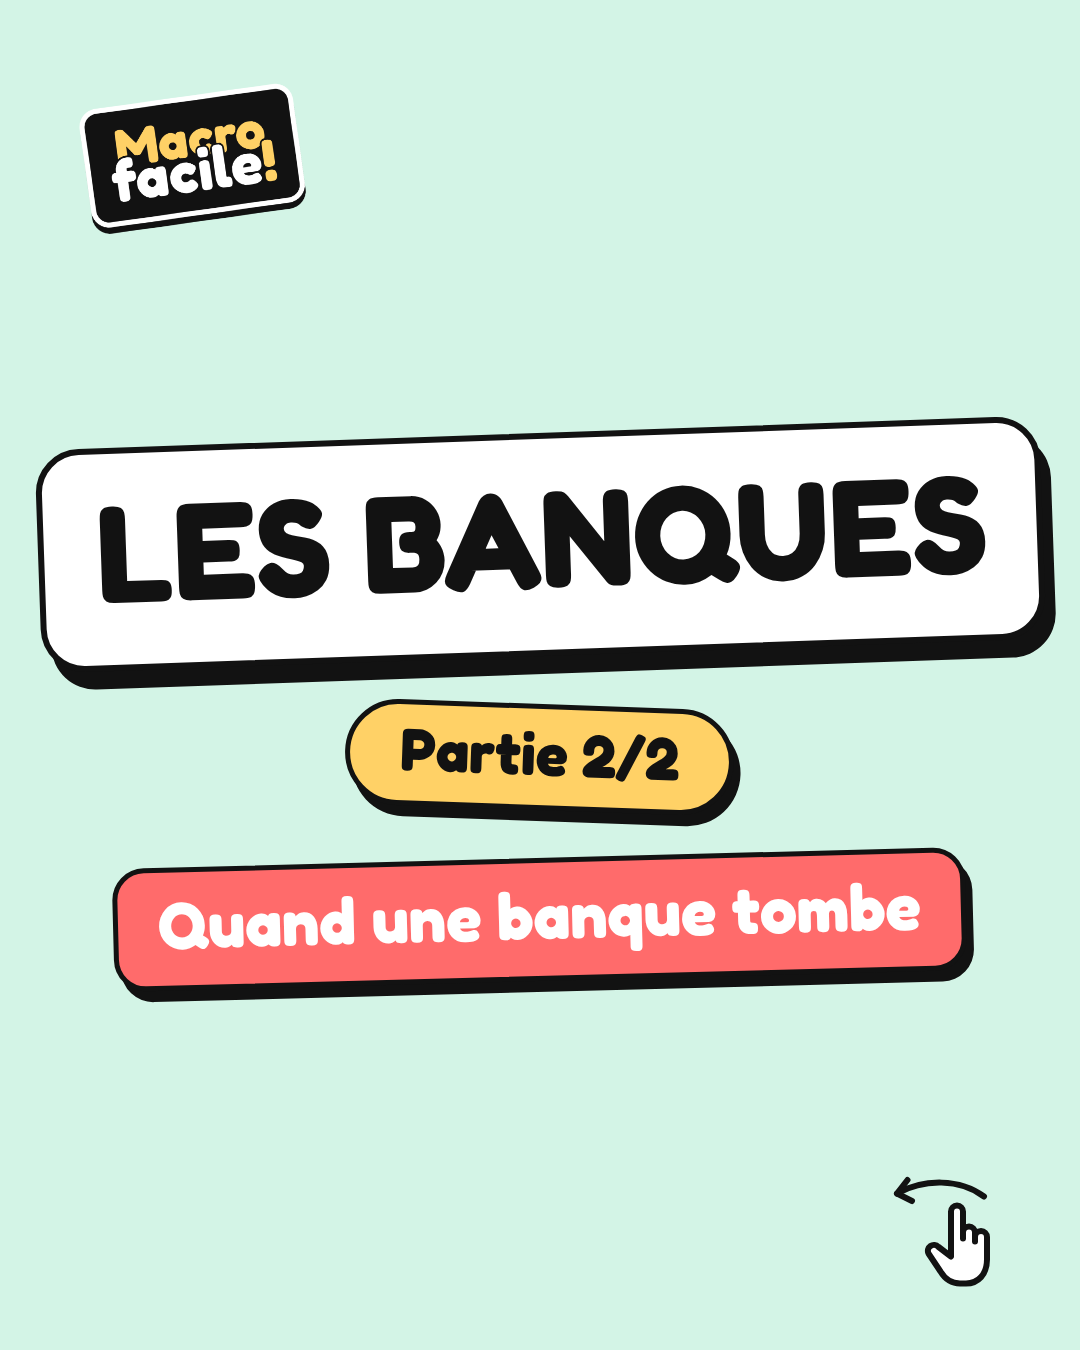
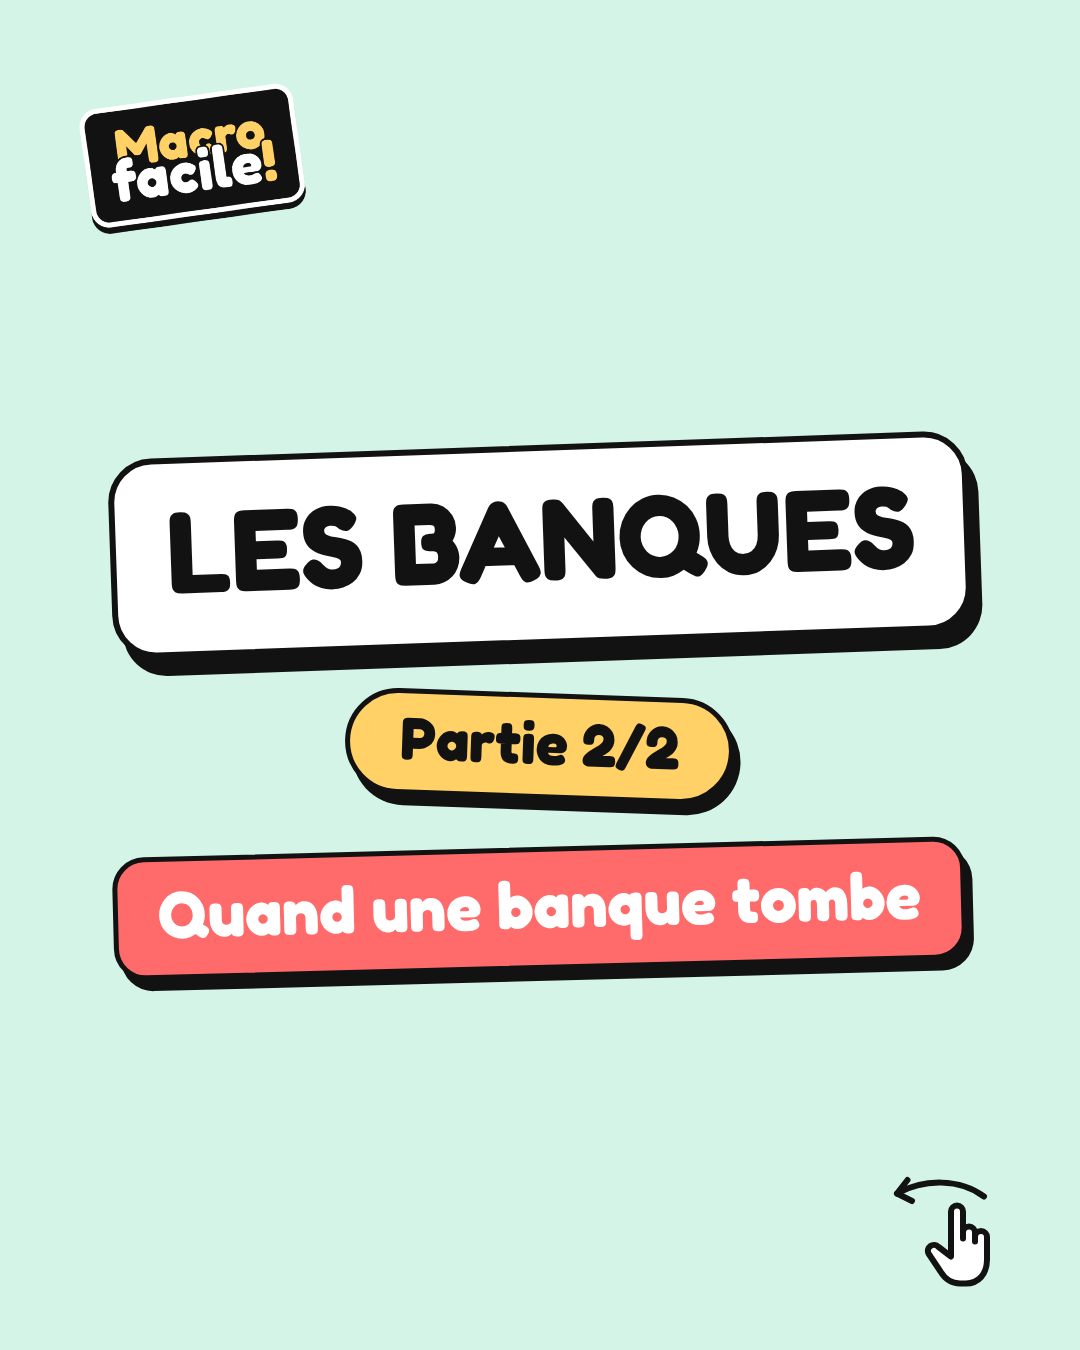
Couvertures : cadre du titre de taille fixe
Claude-Session: https://claude.ai/code/session_01ScyAKR26T942fPs4ZH6Uxk

Changed region(s): [[0.0306, 0.3111, 0.9778, 0.7467]]

diff --git a/modeles/posts/base.py b/modeles/posts/base.py
@@ -1,0 +1,120 @@
+import os, sys, json
+TH = sys.argv[1] if len(sys.argv) > 1 else '#C9F2DF'
+OUT = sys.argv[2] if len(sys.argv) > 2 else 'slides'
+os.makedirs(OUT, exist_ok=True)
+THEME='LES BANQUES'
+NPARTS=2
+K = '#121212'; Y = '#FFD166'; GP = '#BDEFC9'; RP = '#FFC9C9'; VP = '#DCD3FF'; BP = '#CDE6FF'; OP = '#FFE0B8'
+
+CSS = f"""@font-face{{font-family:F;src:url(../Fredoka.ttf);font-weight:300 700}}
+html,body{{margin:0}}
+.s{{width:1080px;height:1350px;position:relative;overflow:hidden;font-family:F;color:{K};box-sizing:border-box}}
+.in{{position:relative;height:100%;box-sizing:border-box;display:flex;flex-direction:column;gap:40px;padding:80px 72px 170px}}
+.tag{{align-self:flex-start;background:#fff;border-radius:28px;padding:10px 34px 16px;transform:rotate(-2deg);box-shadow:0 10px 0 {K};font-weight:700;font-size:58px;line-height:1;white-space:nowrap}}
+.mid{{display:flex;flex-direction:column;gap:46px;margin:auto 0}}
+.big{{margin:0;text-align:center;font-weight:600;font-size:66px;line-height:1.2}}
+.txt{{margin:0;text-align:center;font-weight:500;font-size:46px;line-height:1.3}}
+.hl{{background:{Y};border-radius:12px;padding:0 12px 6px;-webkit-box-decoration-break:clone;box-decoration-break:clone}}
+.card{{background:#fff;border-radius:36px;box-shadow:0 12px 0 {K};padding:36px 36px 40px;display:flex;flex-direction:column;gap:22px}}
+.row{{border-radius:28px;box-shadow:0 9px 0 {K};padding:20px 26px;display:flex;align-items:center;gap:24px}}
+.ic{{flex:none;width:92px;height:92px;border-radius:50%;background:#fff;border:5px solid {K};display:flex;align-items:center;justify-content:center;box-sizing:border-box}}
+.rt{{display:flex;flex-direction:column;gap:4px;flex:1}}
+.rt b{{font-weight:700;font-size:42px;line-height:1.1}}
+.rt span{{font-weight:400;font-size:32px;line-height:1.25}}
+.rt .ex{{display:block;margin-top:4px;font-weight:600;font-size:30px;font-style:normal}}
+.arrow{{text-align:center;font-weight:700;font-size:56px;line-height:.8}}
+.foot{{position:absolute;left:72px;right:72px;bottom:56px;display:flex;justify-content:space-between;align-items:center}}
+.pill{{display:flex;align-items:center;gap:14px;background:{K};border-radius:999px;padding:10px 26px 14px;transform:rotate(-2deg);font-weight:700;font-size:32px;line-height:1;color:#fff}}
+"""
+
+ICON = {
+ 'menage': '<circle cx="32" cy="20" r="10"/><path d="M14 54 C14 40 22 33 32 33 C42 33 50 40 50 54 Z"/>',
+ 'usine': '<path d="M8 54 V30 L22 38 V30 L36 38 V14 H48 V54 Z"/><path d="M8 54 H56"/>',
+ 'etat': '<path d="M8 24 L32 10 L56 24 Z"/><path d="M14 28 V48 M26 28 V48 M38 28 V48 M50 28 V48"/><path d="M8 54 H56"/>',
+ 'monde': '<circle cx="32" cy="32" r="22"/><path d="M10 32 H54"/><path d="M32 10 C22 22 22 42 32 54 C42 42 42 22 32 10"/>',
+ 'carton': '<path d="M10 22 L32 12 L54 22 V46 L32 56 L10 46 Z"/><path d="M10 22 L32 32 L54 22 M32 32 V56"/>',
+ 'up': '<path d="M32 52 V14 M18 28 L32 14 L46 28"/>',
+ 'down': '<path d="M32 12 V50 M18 36 L32 50 L46 36"/>',
+ 'euro': '<path d="M46 16 C40 11 32 10 26 14 C18 19 16 30 18 38 C20 48 32 56 46 48"/><path d="M10 28 H36 M10 38 H34"/>',
+ 'pourcent': '<circle cx="20" cy="20" r="7"/><circle cx="44" cy="44" r="7"/><path d="M48 14 L16 50"/>',
+ 'cle': '<circle cx="22" cy="32" r="12"/><path d="M34 32 H56 M48 32 V42 M56 32 V40"/>',
+ 'piege': '<path d="M32 10 L56 52 H8 Z"/><path d="M32 26 V38"/><circle cx="32" cy="45" r="1.5"/>',
+ 'pont': '<path d="M6 40 H58"/><path d="M10 40 C18 22 46 22 54 40"/><path d="M18 40 V52 M46 40 V52 M32 26 V40"/>',
+ 'cadenas': '<rect x="14" y="28" width="36" height="26" rx="5"/><path d="M22 28 V20 a10 10 0 0 1 20 0 V28"/>',
+}
+def ic(name, color=K, size=56):
+    return f'<div class="ic"><svg width="{size}" height="{size}" viewBox="0 0 64 64" fill="none" stroke="{color}" stroke-width="5" stroke-linecap="round" stroke-linejoin="round">{ICON[name]}</svg></div>'
+
+def row(icon, title, sub, bg):
+    return f'<div class="row" style="background:{bg}">{ic(icon)}<div class="rt"><b>{title}</b><span>{sub}</span></div></div>'
+
+LOGO_S = '<img src="../logo.png" style="width:150px;transform:rotate(-4deg)">'
+def foot(label, n, tot, bonus=False):
+    lab = f'<span style="color:{Y}">BONUS</span>' if bonus else f'<span style="color:{Y}">{label}</span>'
+    return f'<div class="foot">{LOGO_S}<div class="pill">{lab}<span>{n}/{tot}</span></div></div>'
+
+SWIPE = '<div style="position:absolute;right:72px;bottom:56px"><svg width="150" height="118" viewBox="0 0 100 78" fill="none" stroke="#121212" stroke-width="4" stroke-linecap="round" stroke-linejoin="round"><path d="M84 16 C68 4 44 4 26 14"/><path d="M33 5 L26 14 L36 19"/><g transform="translate(34 14)"><path fill="#fff" d="M28 42 V12 a4 4 0 0 1 8 0 V30 V26 a4 4 0 0 1 8 0 V32 V29 a4 4 0 0 1 8 0 V44 C52 54 46 60 38 60 H34 C28 60 24 57 21 52 L13 40 a4 4 0 0 1 6.5 -4.5 L28 42 Z"/></g></svg></div>'
+
+def cover(part, sub, dark=False):
+    bg = K if dark else TH
+    shadow = '#fff' if dark else K
+    card_bg = TH if dark else '#fff'
+    if dark:
+        sticker = f'<div style="position:absolute;right:70px;top:-150px;background:{Y};border:5px solid {K};border-radius:30px;padding:12px 40px 20px;transform:rotate(8deg);box-shadow:7px 11px 0 {K};font-weight:700;font-size:96px;line-height:1">BONUS</div>'
+    else:
+        sticker = ''
+    partpill = '' if (dark and not part) else f'<div style="background:{Y};color:{K};border:5px solid {K};border-radius:999px;padding:14px 50px 22px;transform:rotate(2deg);box-shadow:7px 11px 0 {K};font-weight:700;font-size:60px;line-height:1;white-space:nowrap">Partie {part}/{NPARTS}</div>'
+    subpill = f'<div style="background:#FF6B6B;color:#fff;border:5px solid {K};border-radius:32px;padding:16px 40px 24px;transform:rotate({2 if dark else -1.5}deg);box-shadow:7px 11px 0 {shadow if dark else K};font-weight:{600 if dark else 700};font-size:{70 if dark else (84 if len(sub)<16 else 66)}px;line-height:1.1;white-space:nowrap">{sub}</div>'
+    swipe = SWIPE.replace('stroke="#121212" stroke-width="4"', f'stroke="{"#fff" if dark else K}" stroke-width="4"').replace('fill="#fff"', f'fill="{K if dark else "#fff"}"')
+    return f'''<div class="s" style="background:{bg}"><div class="in" style="justify-content:space-between;gap:0">
+<img src="../logo.png" style="width:240px;transform:rotate(-4deg);align-self:flex-start">
+<div style="display:flex;flex-direction:column;gap:{48 if not dark else 64}px;align-items:center">
+<div style="position:relative"><div style="background:{card_bg};border:6px solid {K};border-radius:44px;padding:26px 0 40px;width:860px;box-sizing:border-box;transform:rotate(-2deg);box-shadow:10px 18px 0 {shadow};font-weight:700;line-height:1.05;text-align:center;white-space:nowrap"><span class="fit" style="font-size:124px;display:inline-block">{THEME}</span></div>{sticker}</div>
+{partpill}{subpill}</div><div></div></div>{swipe}</div>'''
+
+def nextpost(n, t):
+    return f'<div style="background:{K};color:#fff;border-radius:30px;padding:16px 30px 20px;display:flex;align-items:center;justify-content:space-between;gap:20px;transform:rotate(-1deg)"><div style="display:flex;flex-direction:column;gap:6px"><span style="color:{Y};font-weight:700;font-size:30px">Prochain post · Partie {n}/{NPARTS}</span><span style="font-weight:600;font-size:42px;line-height:1.1">{t}</span></div><span style="font-weight:700;font-size:64px;color:{Y}">→</span></div>'
+
+def slide(inner, footer, bg=None):
+    return f'<div class="s" style="background:{bg or TH}"><div class="in">{inner}</div>{footer}</div>'
+
+def tile(icon,who,verb,ex,bg,rot):
+    return f'<div style="background:{bg};border-radius:34px;box-shadow:0 10px 0 {K};padding:30px 24px 30px;display:flex;flex-direction:column;align-items:center;text-align:center;gap:10px;transform:rotate({rot}deg)">{ic(icon,K,64).replace("width:92px;height:92px","width:116px;height:116px")}<b style="font-size:40px;line-height:1.1">{who}</b><span style="font-weight:600;font-size:32px;background:#fff;border-radius:999px;padding:4px 18px 8px">{verb}</span><span style="font-size:28px">{ex}</span></div>'
+def why(who,what,ex,bg):
+    return f'<div style="display:flex;align-items:stretch;border-radius:30px;box-shadow:0 10px 0 {K};overflow:hidden;background:#fff"><div style="background:{bg};width:290px;flex:none;display:flex;align-items:center;justify-content:center;padding:20px;border-right:4px solid {K}"><b style="font-size:38px;text-align:center;line-height:1.1">{who}</b></div><div style="padding:38px 28px;display:flex;flex-direction:column;gap:10px;justify-content:center"><b style="font-size:40px;line-height:1.15">→ {what}</b><span style="font-size:32px;font-weight:500">{ex}</span></div></div>'
+
+PIG = """<svg width="{w}" viewBox="0 0 220 190" fill="none" stroke="#121212" stroke-width="6" stroke-linecap="round" stroke-linejoin="round">
+<g transform="translate(0 6)">{coin}
+<path d="M44 152 v20 h20 v-14 M136 156 v16 h20 v-20" fill="#FF9EB5"/>
+<ellipse cx="104" cy="112" rx="76" ry="56" fill="#FFB3C6"/>
+<path d="M62 64 L56 36 L86 56" fill="#FF9EB5"/>
+<rect x="166" y="96" width="34" height="34" rx="12" fill="#FF9EB5"/>
+<circle cx="178" cy="113" r="3" fill="#121212" stroke="none"/><circle cx="189" cy="113" r="3" fill="#121212" stroke="none"/>
+<circle cx="146" cy="96" r="5" fill="#121212" stroke="none"/>
+<path d="M86 66 h40"/>
+<path d="M28 108 c-14 -4 -14 -20 0 -16"/>
+{extra}</g></svg>"""
+def pig(w=260, coin=True, sad=False):
+    c = '<g transform="translate(92 -4)"><ellipse cx="14" cy="22" rx="20" ry="20" fill="#FFD166"/><path d="M14 12 v20"/></g>' if coin else ''
+    e = '<path d="M128 126 q10 -10 22 0" />' if sad else '<path d="M130 122 q10 10 22 0"/>'
+    if sad: e += '<path d="M60 92 l14 22 l-10 6 l16 22" stroke="#121212" stroke-width="5"/>'
+    return PIG.format(w=w, coin=c, extra=e)
+
+def deco(svg, right=80, bottom=150, rot=-8):
+    return f'<div style="position:absolute;right:{right}px;bottom:{bottom}px;transform:rotate({rot}deg);pointer-events:none">{svg}</div>'
+
+def jar(w=230, full=True):
+    coins_full = ''.join(f'<ellipse cx="{x}" cy="{y}" rx="22" ry="9" fill="#FFD166"/>' for x,y in [(70,196),(112,196),(150,196),(88,184),(132,184),(70,172),(112,172),(150,172),(90,160),(130,160),(110,148)])
+    coins_few = '<ellipse cx="96" cy="196" rx="22" ry="9" fill="#FFD166"/><ellipse cx="136" cy="198" rx="22" ry="9" fill="#FFD166"/>'
+    falling = '<g transform="translate(160 18) rotate(20)"><ellipse cx="0" cy="0" rx="20" ry="20" fill="#FFD166"/><path d="M0 -9 v18"/></g>' if full else '<path d="M188 70 q8 12 0 18 q-8 -6 0 -18 Z" fill="#9AD4FF" stroke-width="4"/>'
+    return f"""<svg width="{w}" viewBox="0 0 220 230" fill="none" stroke="#121212" stroke-width="6" stroke-linecap="round" stroke-linejoin="round">
+{falling}
+<rect x="62" y="46" width="96" height="24" rx="8" fill="#B9A7FF"/>
+<path d="M58 70 h104 c18 0 26 14 26 30 v96 c0 14 -10 24 -24 24 h-108 c-14 0 -24 -10 -24 -24 v-96 c0 -16 8 -30 26 -30 Z" fill="#EAF6FF"/>
+{coins_full if full else coins_few}
+<rect x="52" y="104" width="116" height="34" rx="8" fill="#fff" stroke-width="5"/>
+<text x="110" y="129" text-anchor="middle" font-family="F" font-weight="700" font-size="22" fill="#121212" stroke="none">ÉPARGNE</text>
+<path d="M50 160 v28" stroke="#fff" stroke-width="7" opacity=".9"/>
+</svg>"""
+
+P = {}

diff --git a/modeles/posts/gen.py b/modeles/posts/gen.py
@@ -69,7 +69,7 @@ def cover(part, sub, dark=False):
     return f'''<div class="s" style="background:{bg}"><div class="in" style="justify-content:space-between;gap:0">
 <img src="../logo.png" style="width:240px;transform:rotate(-4deg);align-self:flex-start">
 <div style="display:flex;flex-direction:column;gap:{48 if not dark else 64}px;align-items:center">
-<div style="position:relative"><div style="background:{card_bg};border:6px solid {K};border-radius:44px;padding:26px 50px 40px;transform:rotate(-2deg);box-shadow:10px 18px 0 {shadow};font-weight:700;font-size:{(100 if '<br>' in THEME else (138 if len(THEME)<=11 else 116))}px;line-height:1.05;text-align:center;white-space:nowrap">{THEME}</div>{sticker}</div>
+<div style="position:relative"><div style="background:{card_bg};border:6px solid {K};border-radius:44px;padding:26px 0 40px;width:860px;box-sizing:border-box;transform:rotate(-2deg);box-shadow:10px 18px 0 {shadow};font-weight:700;line-height:1.05;text-align:center;white-space:nowrap"><span class="fit" style="font-size:124px;display:inline-block">{THEME}</span></div>{sticker}</div>
 {partpill}{subpill}</div><div></div></div>{swipe}</div>'''
 
 def nextpost(n, t):
@@ -353,7 +353,7 @@ def _refoot(lst, label):
 F = lambda n, t=9: foot('PARTIE 2', n, t)
 _np2 = nextpost(2, 'Quand une banque tombe')
 _p4 = P['p1'][3].replace('<div class="tag">Le problème</div><div class="mid" style="gap:44px','<div class="tag">Le problème</div><div class="mid" style="gap:34px')
-_p1 = [cover(1, 'Ce qu\'elles font<br>de ton argent').replace('white-space:nowrap">Ce qu','white-space:normal;text-align:center">Ce qu'), P['p1'][1], P['p1'][2], _ins_before_foot(_p4, _np2)]
+_p1 = [cover(1, 'Comment elles fonctionnent'), P['p1'][1], P['p1'][2], _ins_before_foot(_p4, _np2)]
 _panic = P['p1'][4].replace(nextpost(2, 'Le levier'), '')
 _rescue = slide(f'''<div class="tag">Comment récupérer son argent ?</div><div class="mid" style="gap:40px;margin:auto 0">
 <p class="big" style="font-size:54px">Il existe <span class="hl">3 filets de sécurité</span></p>
@@ -374,11 +374,12 @@ for a,b in [("Tout le monde retire en même temps','mais l'argent est prêté su
 _bs = _bs.replace("Tout le monde retire en même temps</b><span>mais l'argent est prêté sur 20 ans…","Elle n'a rien fait de mal</b><span>ses crédits sont bons… mais remboursés sur 20 ans").replace("→ elle n'a pas assez de cash","→ la confiance, c'est vital")
 _p2 = [cover(2, 'Quand une banque tombe'), _panic, _bs, _rescue, _mots, _retenir]
 P['p1'] = _refoot(_p1, 'PARTIE 1'); P['p2'] = _refoot(_p2, 'PARTIE 2'); del P['p3']
+FITJS = "<script>/*fitjs*/document.fonts.ready.then(()=>{for(const e of document.querySelectorAll('.fit')){let f=124;while(e.offsetWidth>760&&f>60){f-=2;e.style.fontSize=f+'px'}}})</script>"
 import re
 def _contour(h):
     # règle nov. 2026 : blocs avec contour noir + ombre en biais
     return re.sub(r'box-shadow:0 (\d+)px 0 #121212', lambda m: f'border:5px solid #121212;box-shadow:{max(5,round(int(m.group(1))*0.6))}px {m.group(1)}px 0 #121212', h)
 for k, lst in P.items():
     for i, h in enumerate(lst, 1):
-        open(f'{OUT}/{k}-{i}.html', 'w').write(_contour(f'<!doctype html><html><head><meta charset="utf-8"><style>{CSS}</style></head><body>{h}</body></html>'))
+        open(f'{OUT}/{k}-{i}.html', 'w').write(_contour(f'<!doctype html><html><head><meta charset="utf-8"><style>{CSS}</style></head><body>{h}{FITJS}</body></html>'))
 print('ok')

diff --git a/archives/les-banques/gen.py b/archives/les-banques/gen.py
@@ -69,7 +69,7 @@ def cover(part, sub, dark=False):
     return f'''<div class="s" style="background:{bg}"><div class="in" style="justify-content:space-between;gap:0">
 <img src="../logo.png" style="width:240px;transform:rotate(-4deg);align-self:flex-start">
 <div style="display:flex;flex-direction:column;gap:{48 if not dark else 64}px;align-items:center">
-<div style="position:relative"><div style="background:{card_bg};border:6px solid {K};border-radius:44px;padding:26px 50px 40px;transform:rotate(-2deg);box-shadow:10px 18px 0 {shadow};font-weight:700;font-size:{(100 if '<br>' in THEME else (138 if len(THEME)<=11 else 116))}px;line-height:1.05;text-align:center;white-space:nowrap">{THEME}</div>{sticker}</div>
+<div style="position:relative"><div style="background:{card_bg};border:6px solid {K};border-radius:44px;padding:26px 0 40px;width:860px;box-sizing:border-box;transform:rotate(-2deg);box-shadow:10px 18px 0 {shadow};font-weight:700;line-height:1.05;text-align:center;white-space:nowrap"><span class="fit" style="font-size:124px;display:inline-block">{THEME}</span></div>{sticker}</div>
 {partpill}{subpill}</div><div></div></div>{swipe}</div>'''
 
 def nextpost(n, t):
@@ -374,11 +374,12 @@ for a,b in [("Tout le monde retire en même temps','mais l'argent est prêté su
 _bs = _bs.replace("Tout le monde retire en même temps</b><span>mais l'argent est prêté sur 20 ans…","Elle n'a rien fait de mal</b><span>ses crédits sont bons… mais remboursés sur 20 ans").replace("→ elle n'a pas assez de cash","→ la confiance, c'est vital")
 _p2 = [cover(2, 'Quand une banque tombe'), _panic, _bs, _rescue, _mots, _retenir]
 P['p1'] = _refoot(_p1, 'PARTIE 1'); P['p2'] = _refoot(_p2, 'PARTIE 2'); del P['p3']
+FITJS = "<script>/*fitjs*/document.fonts.ready.then(()=>{for(const e of document.querySelectorAll('.fit')){let f=124;while(e.offsetWidth>760&&f>60){f-=2;e.style.fontSize=f+'px'}}})</script>"
 import re
 def _contour(h):
     # règle nov. 2026 : blocs avec contour noir + ombre en biais
     return re.sub(r'box-shadow:0 (\d+)px 0 #121212', lambda m: f'border:5px solid #121212;box-shadow:{max(5,round(int(m.group(1))*0.6))}px {m.group(1)}px 0 #121212', h)
 for k, lst in P.items():
     for i, h in enumerate(lst, 1):
-        open(f'{OUT}/{k}-{i}.html', 'w').write(_contour(f'<!doctype html><html><head><meta charset="utf-8"><style>{CSS}</style></head><body>{h}</body></html>'))
+        open(f'{OUT}/{k}-{i}.html', 'w').write(_contour(f'<!doctype html><html><head><meta charset="utf-8"><style>{CSS}</style></head><body>{h}{FITJS}</body></html>'))
 print('ok')

diff --git a/archives/les-banques/base.py b/archives/les-banques/base.py
@@ -69,7 +69,7 @@ def cover(part, sub, dark=False):
     return f'''<div class="s" style="background:{bg}"><div class="in" style="justify-content:space-between;gap:0">
 <img src="../logo.png" style="width:240px;transform:rotate(-4deg);align-self:flex-start">
 <div style="display:flex;flex-direction:column;gap:{48 if not dark else 64}px;align-items:center">
-<div style="position:relative"><div style="background:{card_bg};border:6px solid {K};border-radius:44px;padding:26px 50px 40px;transform:rotate(-2deg);box-shadow:10px 18px 0 {shadow};font-weight:700;font-size:{(100 if '<br>' in THEME else (138 if len(THEME)<=11 else 116))}px;line-height:1.05;text-align:center;white-space:nowrap">{THEME}</div>{sticker}</div>
+<div style="position:relative"><div style="background:{card_bg};border:6px solid {K};border-radius:44px;padding:26px 0 40px;width:860px;box-sizing:border-box;transform:rotate(-2deg);box-shadow:10px 18px 0 {shadow};font-weight:700;line-height:1.05;text-align:center;white-space:nowrap"><span class="fit" style="font-size:124px;display:inline-block">{THEME}</span></div>{sticker}</div>
 {partpill}{subpill}</div><div></div></div>{swipe}</div>'''
 
 def nextpost(n, t):

diff --git a/archives/les-banques/tail.py b/archives/les-banques/tail.py
@@ -1,8 +1,9 @@
+FITJS = "<script>/*fitjs*/document.fonts.ready.then(()=>{for(const e of document.querySelectorAll('.fit')){let f=124;while(e.offsetWidth>760&&f>60){f-=2;e.style.fontSize=f+'px'}}})</script>"
 import re
 def _contour(h):
     # règle nov. 2026 : blocs avec contour noir + ombre en biais
     return re.sub(r'box-shadow:0 (\d+)px 0 #121212', lambda m: f'border:5px solid #121212;box-shadow:{max(5,round(int(m.group(1))*0.6))}px {m.group(1)}px 0 #121212', h)
 for k, lst in P.items():
     for i, h in enumerate(lst, 1):
-        open(f'{OUT}/{k}-{i}.html', 'w').write(_contour(f'<!doctype html><html><head><meta charset="utf-8"><style>{CSS}</style></head><body>{h}</body></html>'))
+        open(f'{OUT}/{k}-{i}.html', 'w').write(_contour(f'<!doctype html><html><head><meta charset="utf-8"><style>{CSS}</style></head><body>{h}{FITJS}</body></html>'))
 print('ok')

diff --git a/modeles/posts/tail.py b/modeles/posts/tail.py
@@ -1,8 +1,9 @@
+FITJS = "<script>/*fitjs*/document.fonts.ready.then(()=>{for(const e of document.querySelectorAll('.fit')){let f=124;while(e.offsetWidth>760&&f>60){f-=2;e.style.fontSize=f+'px'}}})</script>"
 import re
 def _contour(h):
     # règle nov. 2026 : blocs avec contour noir + ombre en biais
     return re.sub(r'box-shadow:0 (\d+)px 0 #121212', lambda m: f'border:5px solid #121212;box-shadow:{max(5,round(int(m.group(1))*0.6))}px {m.group(1)}px 0 #121212', h)
 for k, lst in P.items():
     for i, h in enumerate(lst, 1):
-        open(f'{OUT}/{k}-{i}.html', 'w').write(_contour(f'<!doctype html><html><head><meta charset="utf-8"><style>{CSS}</style></head><body>{h}</body></html>'))
+        open(f'{OUT}/{k}-{i}.html', 'w').write(_contour(f'<!doctype html><html><head><meta charset="utf-8"><style>{CSS}</style></head><body>{h}{FITJS}</body></html>'))
 print('ok')

diff --git a/modeles/REGLES.md b/modeles/REGLES.md
@@ -96,3 +96,5 @@ Fiche de référence pour continuer le projet dans une nouvelle conversation.
 - Titres de slides pros (pas de « les clients sont fichus ? »)
 - Thème LES BANQUES : fond menthe #D3F4E6, sans le levier (jugé trop dur pour débutants)
 - Musiques : PIB marimba · Monnaie ukulélé · Croissance sifflement · Banques bossa piano électrique 120 bpm
+
+- Couvertures : cadre du titre de LARGEUR FIXE (860px) pour tous les thèmes, texte ajusté automatiquement (max 124px). Tous les cadres ont la même taille sur la grille Insta.
